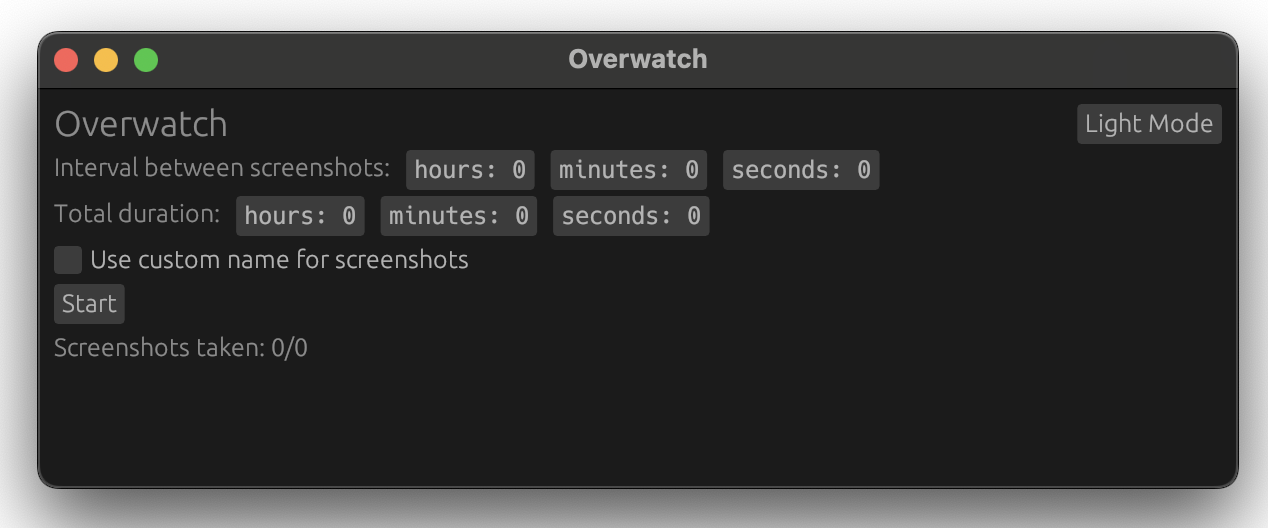
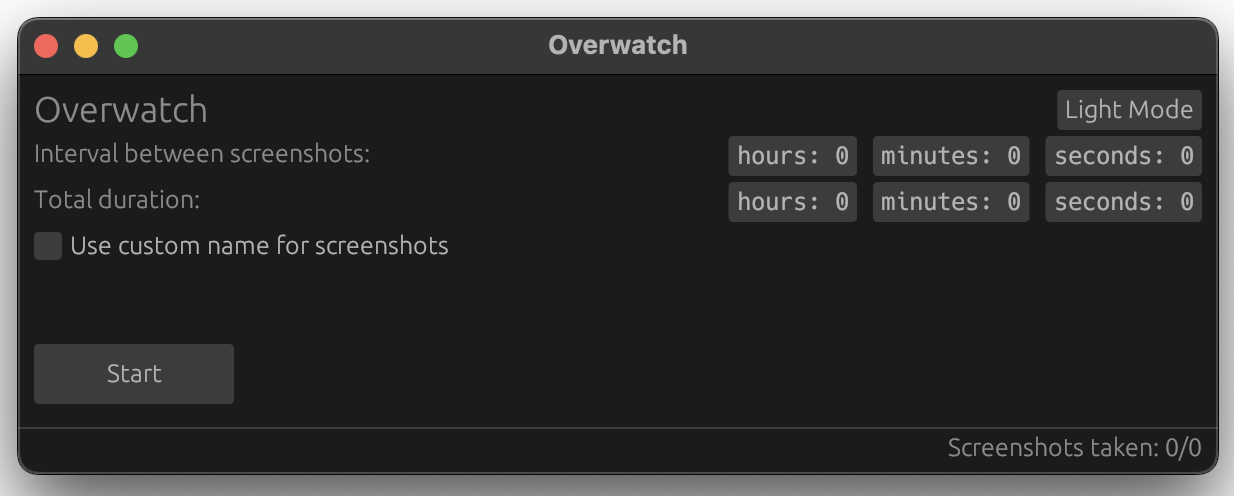
Updated screenshots and README.md

diff --git a/README.md b/README.md
@@ -9,17 +9,20 @@
 - **Flexible Duration Control**: Configure how long the screenshot process should run, from a few seconds to hours or even days.
 - **Dark Mode / Light Mode**: Overwatch offers both **dark mode** and **light mode** for an optimal user experience.
 - **Custom Filename Options**: Automatically timestamp screenshots, or define your own custom filenames for each capture session.
+- **Placeholder in Custom Name Field**: If you choose to use a custom name for your screenshots, a **placeholder** will guide you until a name is entered.
 - **Real-Time Screenshot Count**: Track how many screenshots have been taken during a session and how many are expected.
+- **Start Button**: Centrally placed for easy interaction.
 - **Open-Source**: Fully open-source and written in **Rust**, benefiting from Rust’s memory safety and performance.
-  
+
 ## How It Works
 
 **Overwatch** is designed to be easy to use while providing full flexibility and control over your screenshot workflow. The tool allows users to configure the following options:
 
 - **Interval**: Set how often the screenshots should be taken (in hours, minutes, and seconds).
 - **Duration**: Define the total runtime of the screenshot session.
-- **Custom or Auto-Naming**: Choose between timestamp-based filenames or custom names for each session.
+- **Custom or Auto-Naming**: Choose between timestamp-based filenames or custom names for each session. Placeholder text appears if no custom name is provided.
 - **Dark/Light Mode Toggle**: Switch between a user-friendly light or dark theme.
+- **Screenshot Count**: View the number of screenshots taken during the session.
 
 ## Screenshots
 
@@ -66,7 +69,7 @@ Once the application is running, the GUI allows you to:
 
 1. Set the **interval** between screenshots.
 2. Specify the **total duration** for the screenshot session.
-3. Optionally, set a **custom name** for the screenshots.
+3. Optionally, set a **custom name** for the screenshots (with a placeholder if the field is empty).
 4. Toggle between **light** and **dark mode**.
 5. Monitor how many screenshots have been taken during a session, and how many are expected.
 
@@ -76,7 +79,7 @@ If you want to capture a screenshot every 10 seconds for 2 minutes with a custom
 
 1. Set **Interval** to `0 hours, 0 minutes, 10 seconds`.
 2. Set **Duration** to `0 hours, 2 minutes, 0 seconds`.
-3. Toggle the "Custom name" checkbox and type in `session1`.
+3. Toggle the "Custom name" checkbox and type in `session1` (or use the placeholder to guide you).
 4. Click the **Start** button, and Overwatch will capture and save 12 screenshots over the 2-minute period.
 
 ## Contributing
